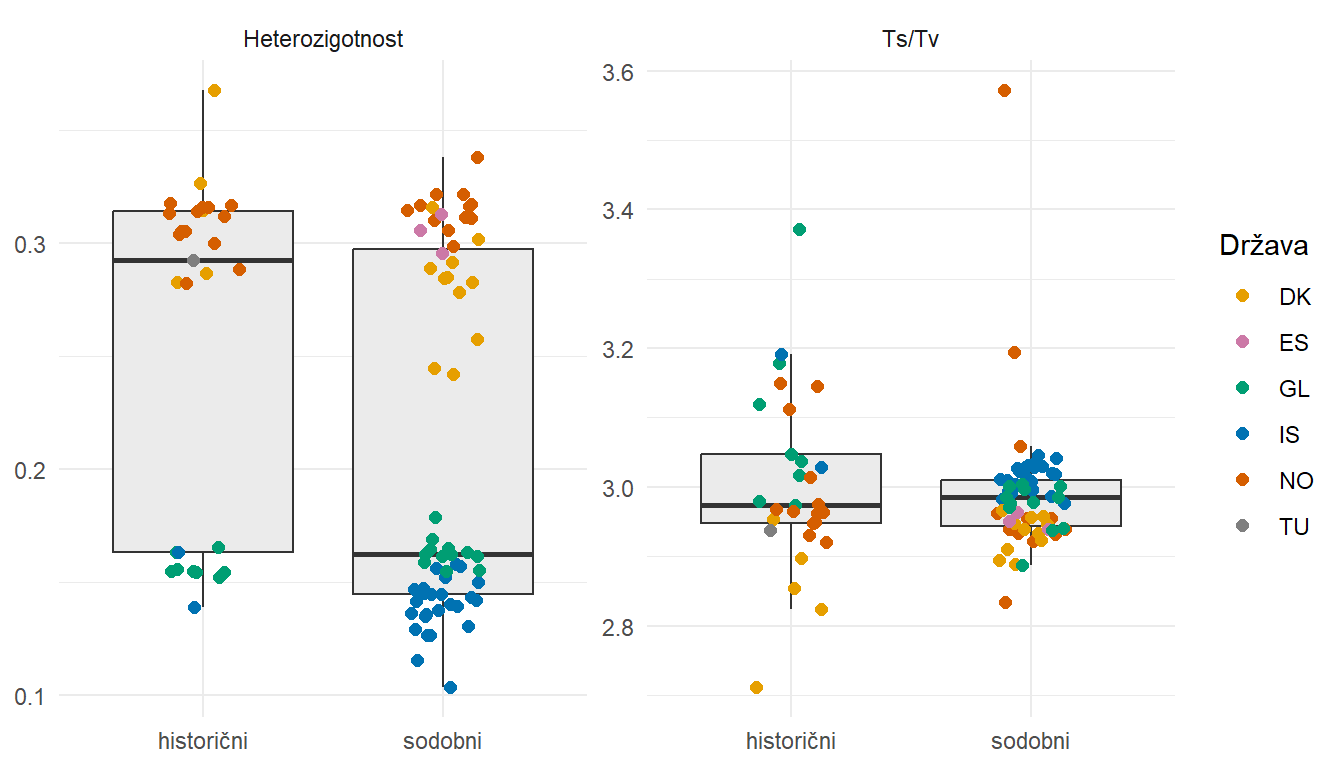
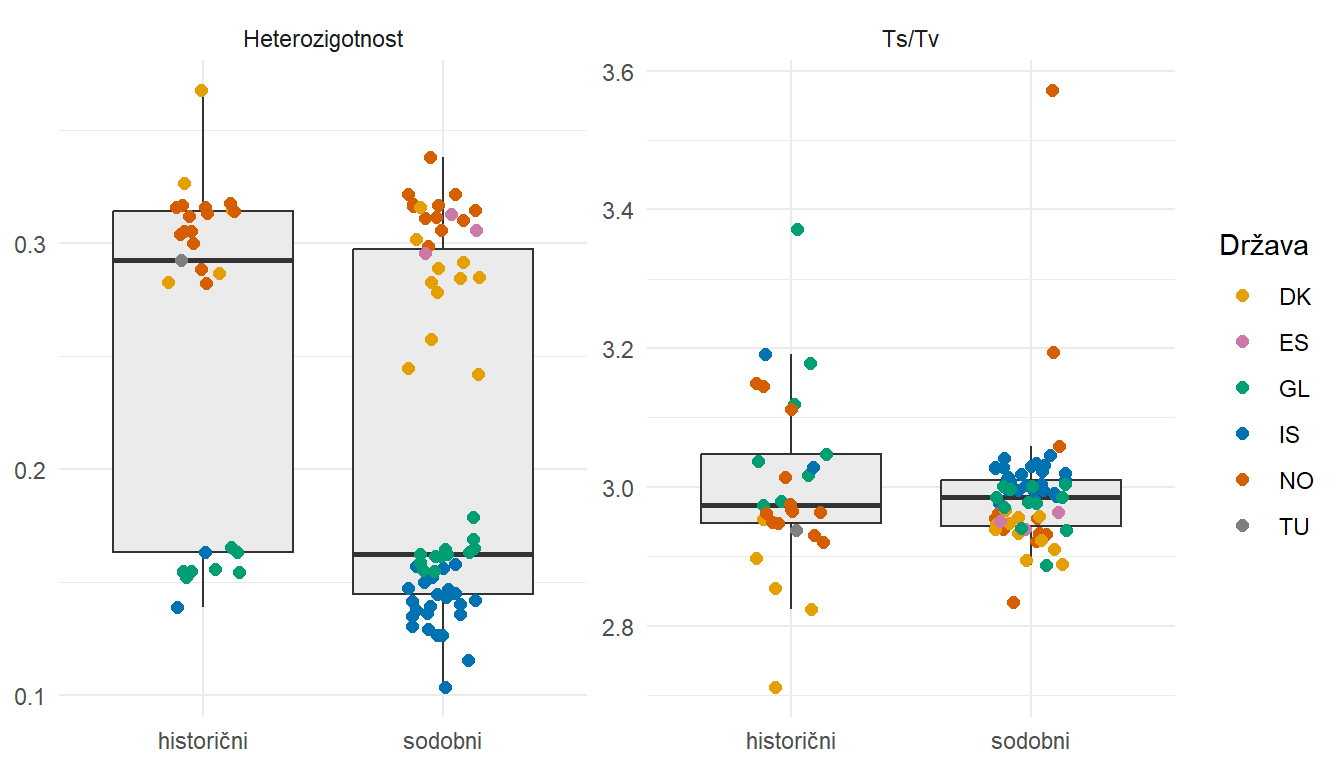
Preusmeritev starih povezav E2_plink na vajo 3

diff --git a/E2_plink_EN/E2_plink_EN.html b/E2_plink_EN/E2_plink_EN.html
@@ -1,0 +1,1 @@
+<!doctype html><meta charset="utf-8"><meta http-equiv="refresh" content="0; url=../E3_plink_EN/E3_plink_EN.html"><link rel="canonical" href="../E3_plink_EN/E3_plink_EN.html"><p>Stran je premaknjena / Page moved: <a href="../E3_plink_EN/E3_plink_EN.html">../E3_plink_EN/E3_plink_EN.html</a></p>

diff --git a/E2_plink/E2_plink.html b/E2_plink/E2_plink.html
@@ -1,0 +1,1 @@
+<!doctype html><meta charset="utf-8"><meta http-equiv="refresh" content="0; url=../E3_plink/E3_plink.html"><link rel="canonical" href="../E3_plink/E3_plink.html"><p>Stran je premaknjena / Page moved: <a href="../E3_plink/E3_plink.html">../E3_plink/E3_plink.html</a></p>
